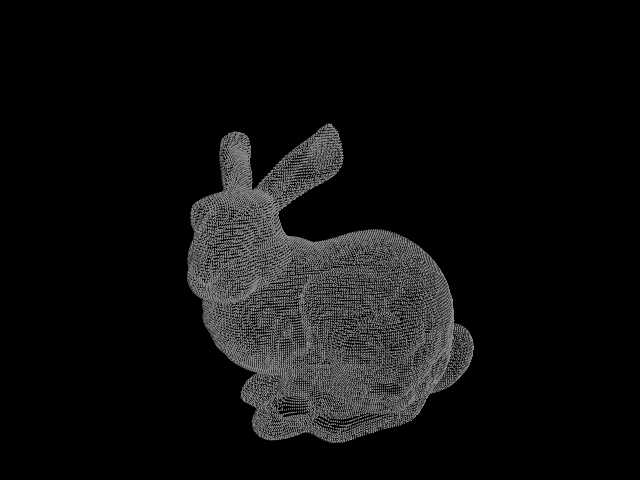
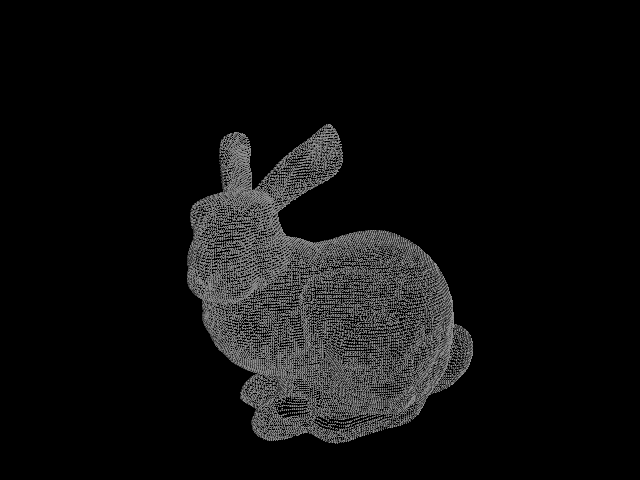
Added minimum and maximum antialiasing rates.

Changed region(s): [[0.2812, 0.25, 0.75, 0.9375]]

diff --git a/src/main.cpp b/src/main.cpp
@@ -18,6 +18,8 @@
 #define DEFAULT_W 256
 #define DEFAULT_H 256
 #define RECURSION_DEPTH 6
+#define MIN_AA 1
+#define MAX_AA 8
 #define CHUNK_SIZE (128*128)
 
 using namespace std;
@@ -54,9 +56,10 @@ void setHeight(char* strIn)
 void setAA(char* strIn)
 {
    numAA = atoi(strIn);
-   if (numAA < 1)
+   if (numAA < MIN_AA || numAA > MAX_AA)
    {
-      cerr << "Invalid antialiasing sample rate: " << numAA << endl;
+      cerr << "Invalid antialiasing sample rate (must be between " <<
+         MIN_AA << " and " << MAX_AA << "): " << numAA << endl;
       exit(EXIT_FAILURE);
    }
 }
